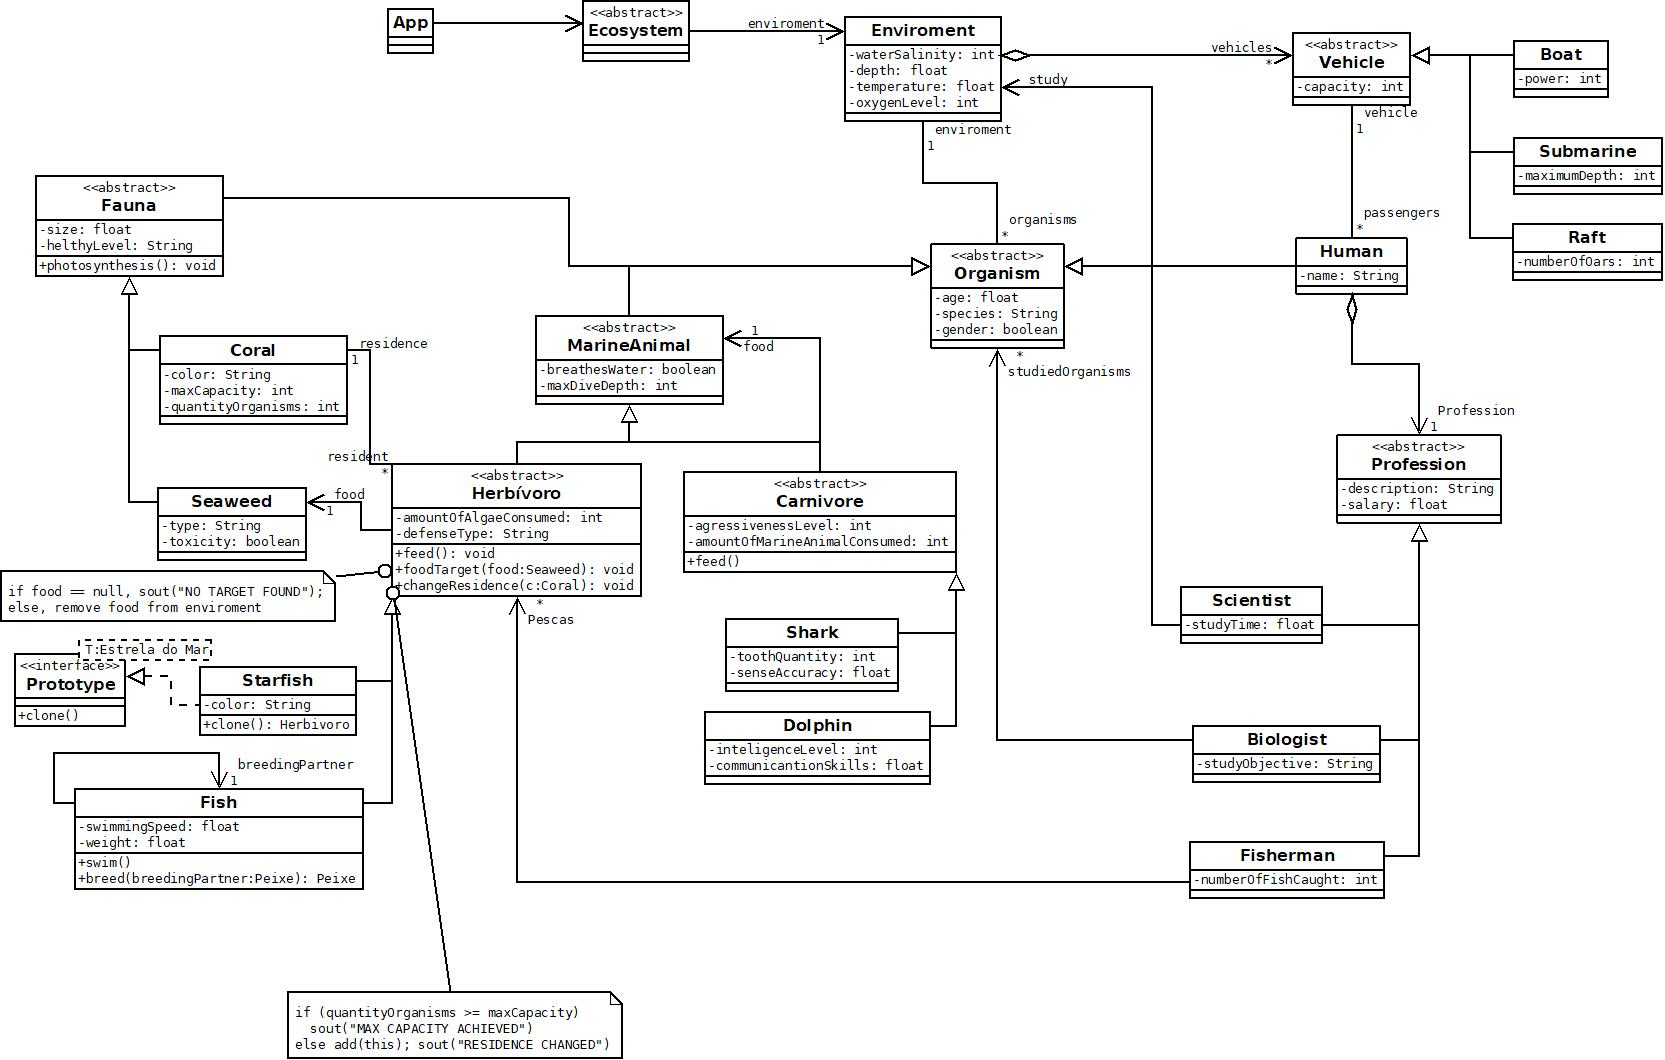
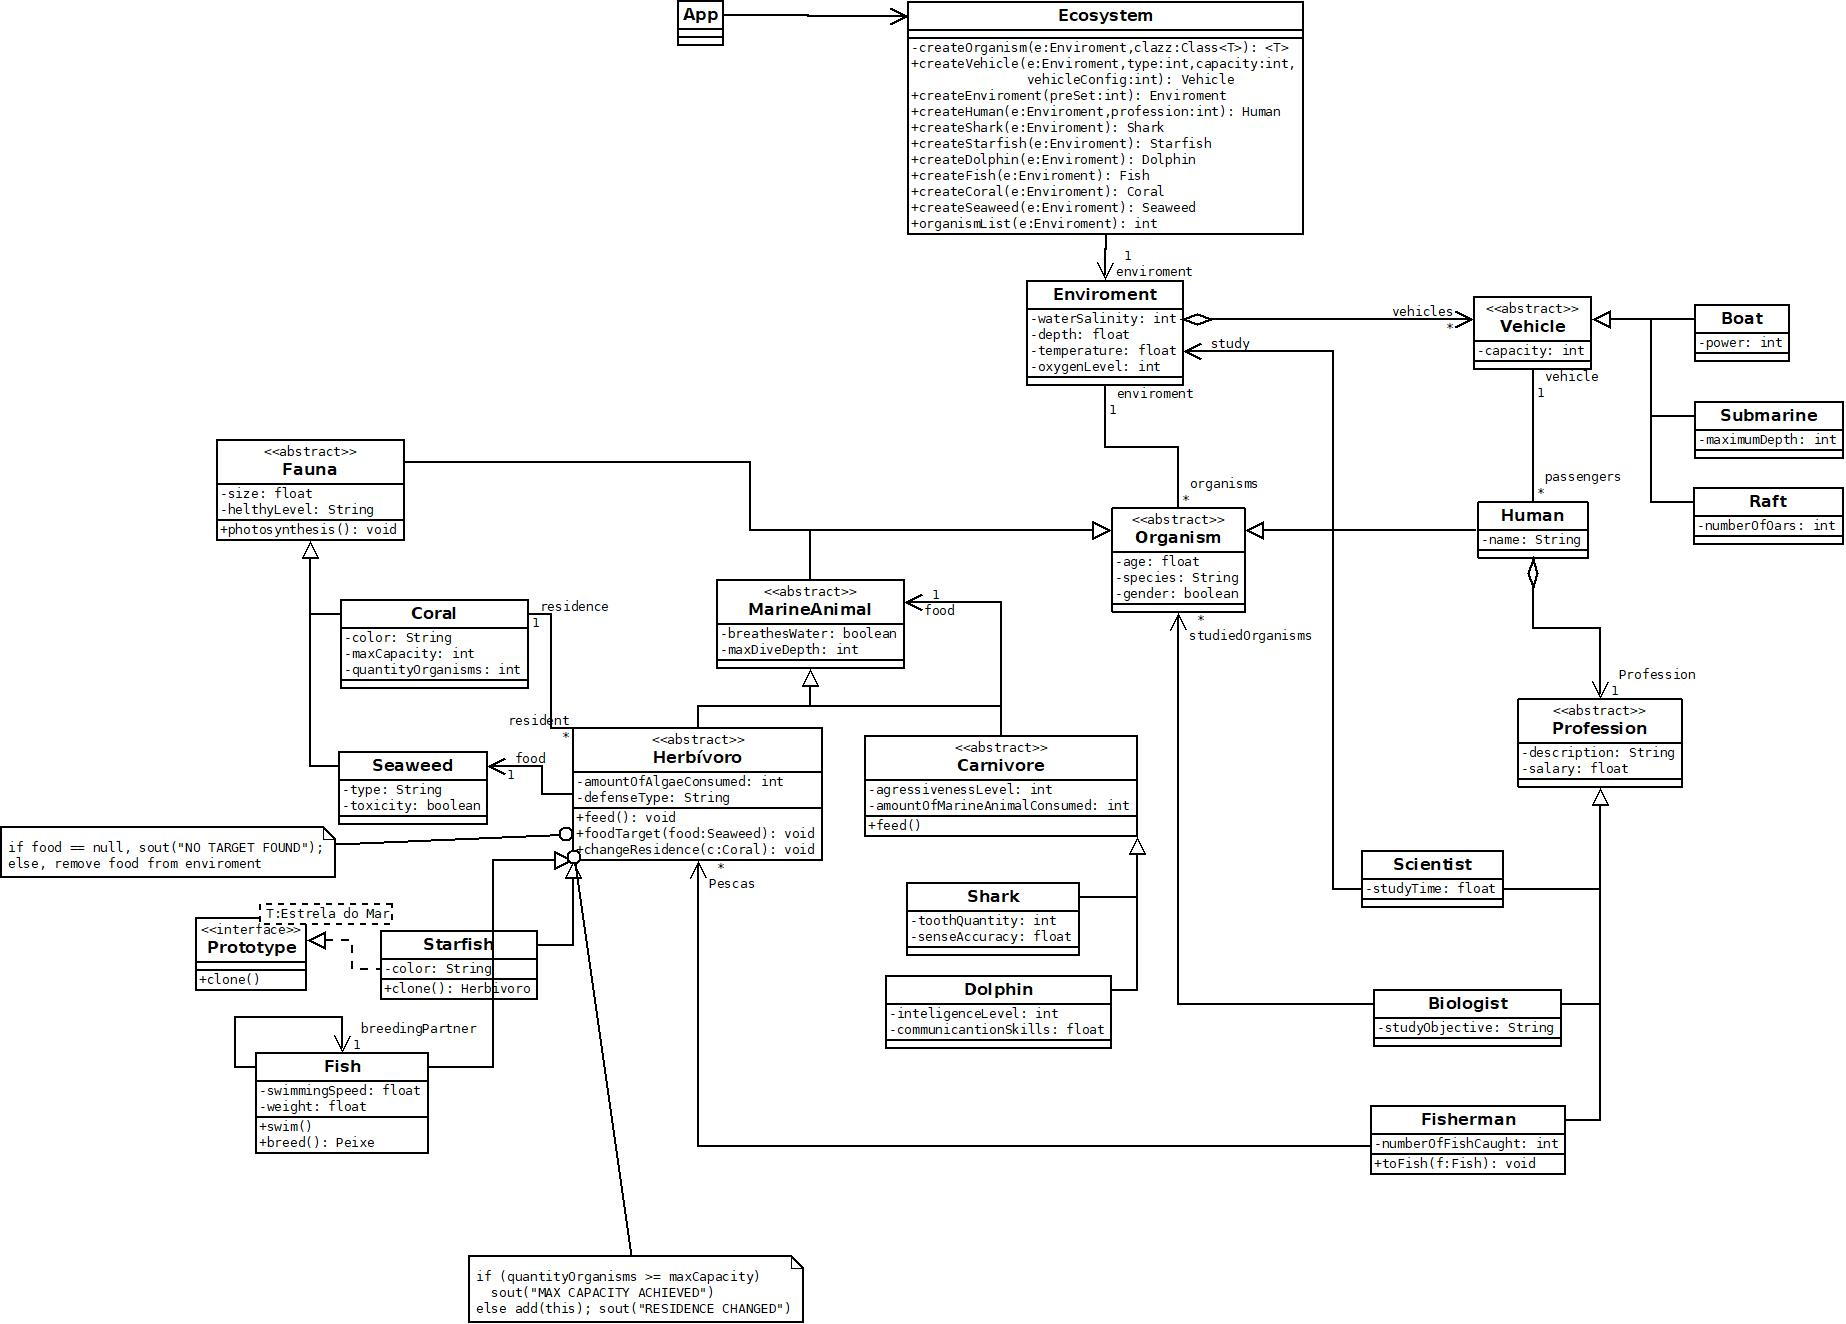
Finalizado metodo fachada, criado um main

diff --git a/src/main/java/br/edu/unifei/ecot12/marinelife/App.java b/src/main/java/br/edu/unifei/ecot12/marinelife/App.java
@@ -2,18 +2,54 @@ package br.edu.unifei.ecot12.marinelife;
 
 public class App {
     public static void main(String[] args) {
-        Environment e = new Environment();
         Ecosystem eco = new Ecosystem();
-        e = eco.createEnvironment(2);
-        Human h1 = eco.createHuman(e, 1);
-        Shark s = eco.createShark(e);
-        Starfish st = eco.createStarfish(e);
-        Starfish st1 = st.clone();
+        Environment e = eco.createEnvironment(2);
+        Human h1S = eco.createHuman(e, 1);
+        Human h2B = eco.createHuman(e, 2);
+        Human h3F = eco.createHuman(e, 3);
+
+        Vehicle v1 = eco.createVehicle(e, 1, 3, 5);
+        h1S.setVehicle(v1);
+        v1.getPassengers().add(h1S);
+        Vehicle v2 = eco.createVehicle(e, 2, 5, 70);
+        Vehicle v3 = eco.createVehicle(e, 3, 8, 3);
+        h2B.setVehicle(v2);
+        v2.getPassengers().add(h2B);
+        h3F.setVehicle(v3);
+        v3.getPassengers().add(h3F);
+
+        Dolphin d1 = eco.createDolphin(e);
+        Shark s1 = eco.createShark(e);
+        Dolphin d2 = eco.createDolphin(e);
+
+        d1.feed();
+
+        Coral c = eco.createCoral(e);
+
+        Seaweed st1 = eco.createSeaweed(e);
+
+        Starfish sf = eco.createStarfish(e);
+
         Fish f1 = eco.createFish(e);
-        System.out.println(eco.organismsList(e));
-        s.feed();
-        s.foodTarget(f1);
-        s.feed();
-        System.out.println(eco.organismsList(e));
+        Fish f2 = eco.createFish(e);
+
+        f1.setBreedingPartner(f2);
+        Fish f3 = f1.breed();
+
+        d2.setFood(f1);
+        d2.feed();
+
+        f3.swim();
+
+        f2.setResidence(c);
+
+        st1.photosynthesis();
+
+        f2.setFood(st1);
+
+        s1.foodTarget(f3);
+        
+        Starfish sf2 = sf.clone();
+        sf2.feed();
     }
 }

diff --git a/src/main/java/br/edu/unifei/ecot12/marinelife/Fish.java b/src/main/java/br/edu/unifei/ecot12/marinelife/Fish.java
@@ -13,11 +13,15 @@ public class Fish extends Herbivore{
         this.weight = weight;
     }
 
-    public Fish breed(Fish breedingPartner){
-        if(breedingPartner.isGender() != this.isGender()){
+    public Fish breed(){
+        if(breedingPartner == null){
+            System.out.println("NO PARTNER FOUND");
+            return null;
+        }
+        else if(breedingPartner.isGender() != this.isGender()){
             getEnvironment().setOxygenLevel(getEnvironment().getOxygenLevel() - 0.05);
             System.out.println("THE BREED WAS A SUCCESS");
-            Fish fish = new Fish();
+            Fish fish = new Ecosystem().createFish(this.getEnvironment());
             getEnvironment().getOrganisms().add(fish);
             return fish;
         }

diff --git a/src/main/java/br/edu/unifei/ecot12/marinelife/Fisherman.java b/src/main/java/br/edu/unifei/ecot12/marinelife/Fisherman.java
@@ -7,6 +7,11 @@ public class Fisherman extends Profession {
     private int numberOfFishCaught;
     private List<Herbivore> catches = new ArrayList<>();
 
+    public void toFish(Fish f){
+        f.getEnvironment().getOrganisms().remove(f);
+        numberOfFishCaught++;
+    }
+
     public int getNumberOfFishCaught() {
         return numberOfFishCaught;
     }

diff --git a/src/main/java/br/edu/unifei/ecot12/marinelife/Herbivore.java b/src/main/java/br/edu/unifei/ecot12/marinelife/Herbivore.java
@@ -28,6 +28,7 @@ public abstract class Herbivore extends MarineAnimal {
 
     public void setResidence(Coral residence) {
         this.residence = residence;
+        residence.getResidents().add(this);
     }
 
     public void setFood(Seaweed food) {
